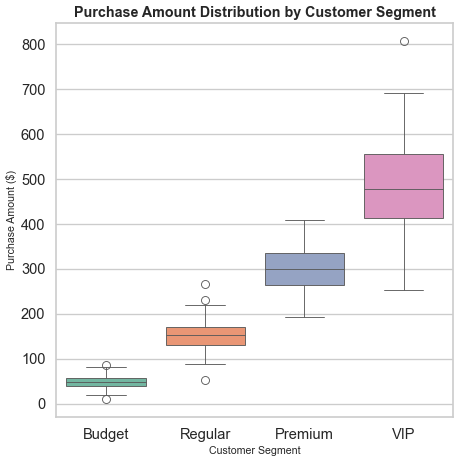
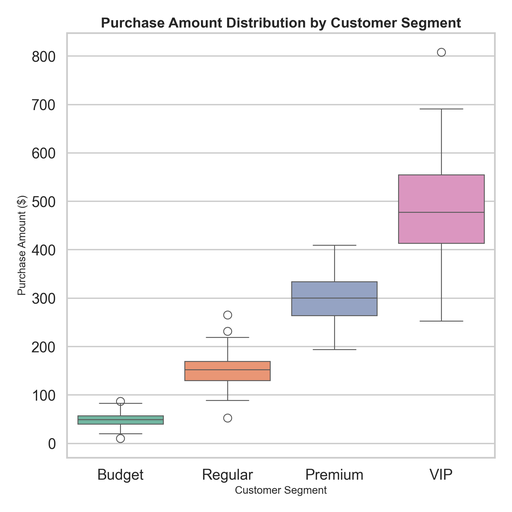
updated codes

Changed region(s): [[0.0, 0.0, 1.0, 1.0]]

diff --git a/hq-seaborn-data-visualization/chart.py b/hq-seaborn-data-visualization/chart.py
@@ -1,64 +1,59 @@
-# 23f3004197@ds.study.iitm.ac.in
-
 import seaborn as sns
 import matplotlib.pyplot as plt
 import pandas as pd
 import numpy as np
+from PIL import Image
+import io
 
-# ----------------------------
-# Step 1: Generate Synthetic Data
-# ----------------------------
-np.random.seed(42)  # For reproducibility
+np.random.seed(42)
 
-# Define customer segments
+# -----------------------------
+# Synthetic Data
+# -----------------------------
 segments = ['Budget', 'Regular', 'Premium', 'VIP']
 data = []
 
-# Simulate realistic purchase amounts per segment
 for segment in segments:
     if segment == 'Budget':
-        amounts = np.random.normal(loc=50, scale=15, size=150)
+        amounts = np.random.normal(50, 15, 150)
     elif segment == 'Regular':
-        amounts = np.random.normal(loc=150, scale=30, size=200)
+        amounts = np.random.normal(150, 30, 200)
     elif segment == 'Premium':
-        amounts = np.random.normal(loc=300, scale=50, size=120)
+        amounts = np.random.normal(300, 50, 120)
     else:  # VIP
-        amounts = np.random.normal(loc=500, scale=100, size=80)
-    
-    # Clip negative values
-    amounts = np.clip(amounts, a_min=0, a_max=None)
-    
-    # Append to data list
+        amounts = np.random.normal(500, 100, 80)
+    amounts = np.clip(amounts, 0, None)
     data.extend([[segment, amt] for amt in amounts])
 
-# Create DataFrame
 df = pd.DataFrame(data, columns=['Customer Segment', 'Purchase Amount'])
 
-# ----------------------------
-# Step 2: Create Boxplot
-# ----------------------------
-sns.set_style("whitegrid")       # Professional style
-sns.set_context("talk")          # Presentation-ready fonts
+# -----------------------------
+# Seaborn Style
+# -----------------------------
+sns.set_style("whitegrid")
+sns.set_context("talk")
 
-plt.figure(figsize=(8, 8))      # 512x512 pixels (dpi=64)
+# -----------------------------
+# Create a larger figure for layout
+# -----------------------------
+fig, ax = plt.subplots(figsize=(8, 8))  # layout space
+sns.boxplot(x='Customer Segment', y='Purchase Amount', data=df, palette='Set2', ax=ax)
 
-# Boxplot
-sns.boxplot(
-    x='Customer Segment',
-    y='Purchase Amount',
-    data=df,
-    palette='Set2'
-)
+ax.set_title("Purchase Amount Distribution by Customer Segment", fontsize=16, weight='bold')
+ax.set_xlabel("Customer Segment", fontsize=12)
+ax.set_ylabel("Purchase Amount ($)", fontsize=12)
 
-# Titles and labels
-plt.title("Purchase Amount Distribution by Customer Segment", fontsize=16, weight='bold')
-plt.xlabel("Customer Segment", fontsize=12)
-plt.ylabel("Purchase Amount ($)", fontsize=12)
+plt.tight_layout()  # prevent clipping
 
-# ----------------------------
-# Step 3: Save the chart
-# ----------------------------
-plt.savefig('chart.png', dpi=64, bbox_inches='tight')  # 512x512 pixels
-plt.close()
+# -----------------------------
+# Render to PIL image at 512x512 pixels
+# -----------------------------
+buf = io.BytesIO()
+fig.savefig(buf, format='png', dpi=200)  # high dpi to preserve layout
+buf.seek(0)
+img = Image.open(buf)
+img = img.resize((512, 512), Image.LANCZOS)
+img.save('chart.png')
 
-print("Chart saved as chart.png")
+plt.close(fig)
+print("Chart saved as chart.png (exactly 512x512 pixels, text fully visible)")
